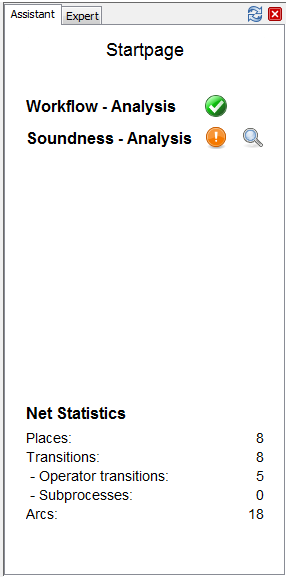
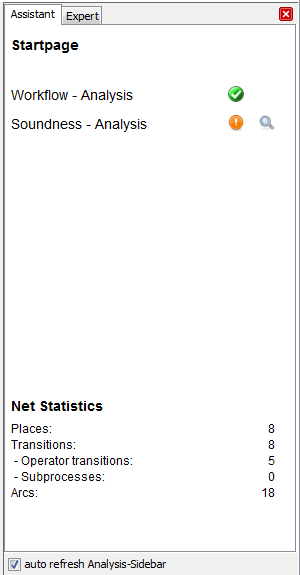
added new screenshots for help

diff --git a/WoPeD-StandaloneRunner/doc/html/en/wizard.htm b/WoPeD-StandaloneRunner/doc/html/en/wizard.htm
@@ -44,7 +44,7 @@ with informations about the net, soundness and general facts. There are no descr
 <h3>Icon description</h3>
 <ul>
   <li><img border="0" src="../images/view-refresh.png" width="16" height="16">
-    &nbsp; Refresh - refresh the sidebar</li>
+    &nbsp; Refresh - refresh the sidebar, only appears if auto refresh is deactivated</li>
   <li><img border="0" src="../images/icons/close.gif" width="16" height="16">
   	&nbsp; Close - close the sidebar</li>
   <li><img border="0" src="../images/okay.png" width="16" height="16">
